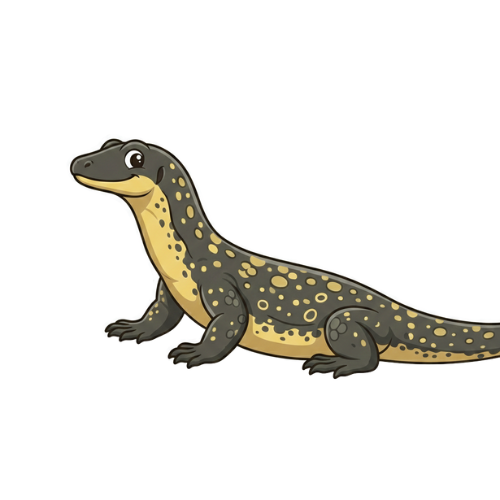
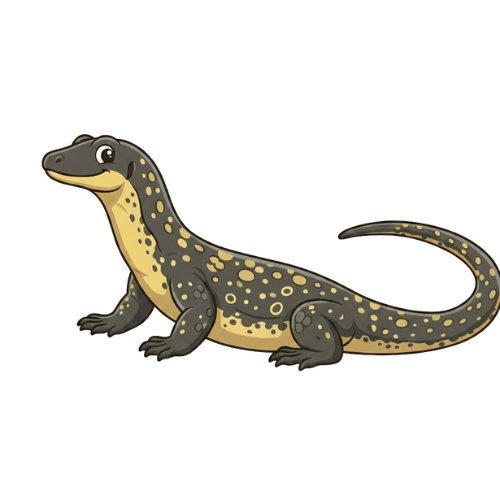
edit

Changed region(s): [[0.06, 0.27, 1.0, 0.78]]

diff --git a/script.js b/script.js
@@ -8,10 +8,18 @@ let score = 0;
 let countdown;
 
 
+window.addEventListener('mousedown', () => {
+    document.body.classList.add('grabbing');
+});
+
+window.addEventListener('mouseup', () => {
+    document.body.classList.remove('grabbing');
+});
+
+
 function randomTime(min, max) {
   return Math.round(Math.random() * (max - min) + min);
 }
-
 
 function randomHole(holes) {
   const idx = Math.floor(Math.random() * holes.length);
@@ -22,7 +30,6 @@ function randomHole(holes) {
   lastHole = hole;
   return hole;
 }
-
 
 function peep() {
   const time = randomTime(400, 1000);
@@ -39,12 +46,12 @@ function startGame() {
   scoreBoard.textContent = 0;
   timeUp = false;
   score = 0;
-  let timeLeft = 30;
+ 
+  let timeLeft = 30; 
   timeLeftDisplay.textContent = `เวลา: ${timeLeft} วินาที`;
   
   peep();
   
-
   countdown = setInterval(() => {
     timeLeft--;
     timeLeftDisplay.textContent = `เวลา: ${timeLeft} วินาที`;
@@ -57,11 +64,31 @@ function startGame() {
 }
 
 
+function showPlusOne(x, y) {
+    const plusOne = document.createElement('div');
+    plusOne.innerText = '+1';
+    plusOne.classList.add('plus-one');
+    
+  
+    plusOne.style.left = x + 'px';
+    plusOne.style.top = y + 'px';
+    
+    document.body.appendChild(plusOne);
+
+   
+    setTimeout(() => {
+        plusOne.remove();
+    }, 800);
+}
+
 function bonk(e) {
   if(!e.isTrusted) return;
   score++;
   this.parentNode.classList.remove('up'); 
   scoreBoard.textContent = score;
+
+
+  showPlusOne(e.pageX, e.pageY);
 }
 
 moles.forEach(mole => mole.addEventListener('click', bonk));

diff --git a/style.css b/style.css
@@ -91,3 +91,39 @@ button:hover {
     .game { width: 100%; height: 300px; }
     h1 { font-size: 2rem; }
 }
+
+body {
+    cursor: grab; 
+}
+
+body.grabbing {
+    cursor: grabbing; 
+}
+
+.plus-one {
+    position: absolute;
+    color: #fff;       
+    background: #0035AD;
+    padding: 5px 10px;
+    border-radius: 50%;
+    font-size: 2rem;
+    font-weight: 800;
+    pointer-events: none;
+    z-index: 100;
+    animation: floatUp 0.8s ease-out forwards;
+    text-shadow: 2px 2px 0 #000;
+}
+
+
+@keyframes floatUp {
+    0% {
+        opacity: 1;
+        transform: translateY(0) scale(1);
+    }
+    100% {
+        opacity: 0;
+        transform: translateY(-100px) scale(1.5);
+    }
+}
+
+
